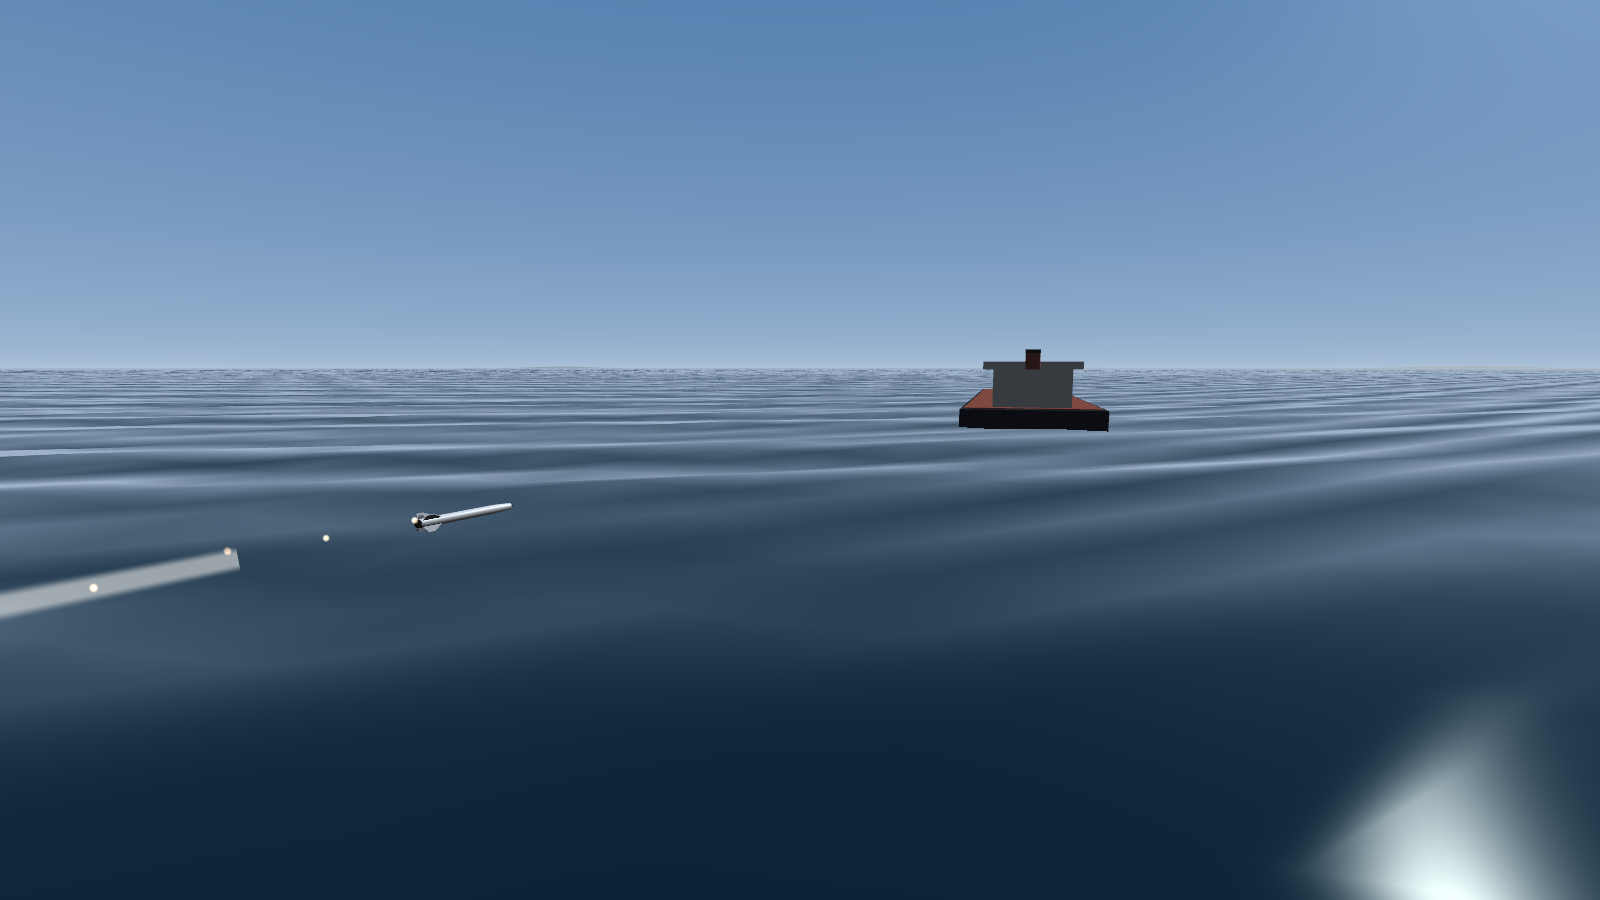
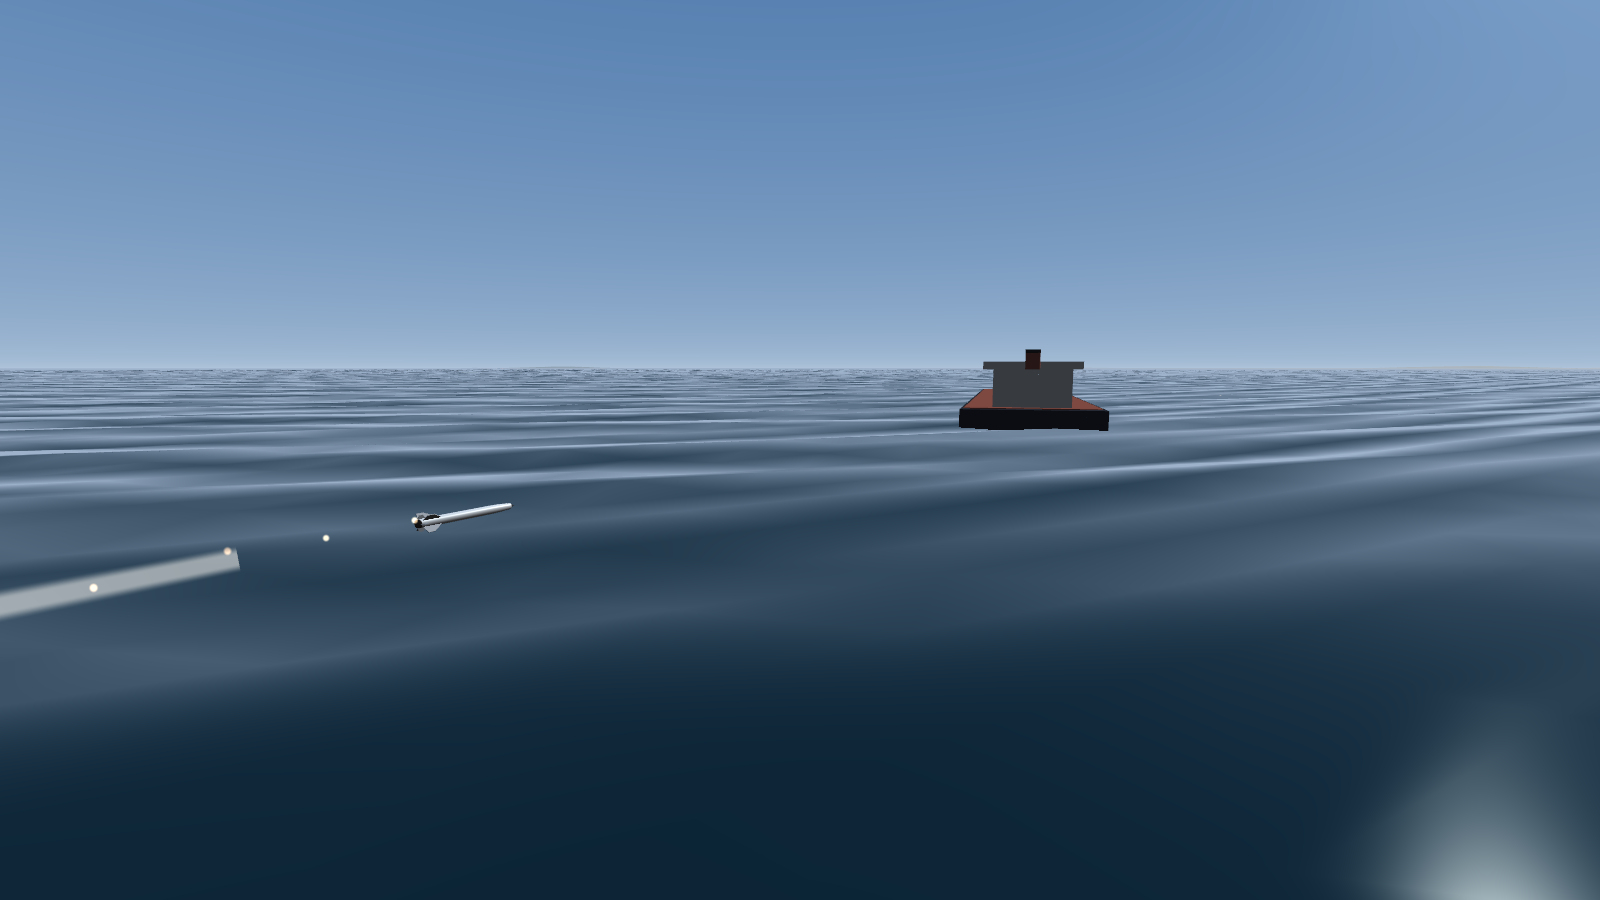
feat: ocean glint variation
S5 glint pass on the ocean shader (geometry untouched — ocean unit
tests unchanged):

- 4th wave direction d3 = (0.675, -0.737) (the golden angle, 2.39996
  rad) at a 37 m wavelength: irrational-ish vs the existing three, so
  the wave phases never re-align into the repeating interference
  lattice that stamped the mid-distance water.
- Specular fades with distance: pow 600 -> 140 and intensity 1.2 ->
  0.30 over 9 km. Near water keeps crisp sparkle; far water gets the
  broad dim sheen of unresolved micro-glints instead of the hard
  white dot field visible in overview.png.

All 7 tracked baselines refreshed deliberately: every scene shows
ocean. overview/models-scenes' mid-distance dot lattice is replaced
by an irregular sun-glade; ocean_low keeps its swell and gains subtle
cross-chop from d3; coast/launch/cruise/terminal/base_ground pick up
the same wave-texture change at their respective distances.

diff --git a/world/ocean.py b/world/ocean.py
@@ -84,19 +84,23 @@ out vec3 v_nrm; out vec3 v_view_vec; out float v_flogz;
 void main(){
     vec2 wxz = a_pos.xz + u_world_origin;   // true world xz -> waves don't swim
     float ww = a_col.r;                      // wave weight
-    // 3 directional sines: dir, spatial freq (rad/m), amplitude (m), speed (m/s)
-    vec2  d0 = vec2( 0.78,  0.62), d1 = vec2(-0.45, 0.89), d2 = vec2(0.95, -0.31);
-    float f0 = 6.2831853/22.0,     f1 = 6.2831853/59.0,    f2 = 6.2831853/13.0;
-    float a0 = 0.35,               a1 = 0.55,              a2 = 0.18;
-    float s0 = 4.0,                s1 = 6.5,               s2 = 3.1;
+    // 4 directional sines: dir, spatial freq (rad/m), amplitude (m), speed (m/s).
+    // d3 (S5 glint pass) heads down the golden angle (2.39996 rad) with a 37 m
+    // wavelength — irrational-ish vs the others, so the four phases never
+    // re-align into the repeating interference lattice three waves made.
+    vec2  d0 = vec2( 0.78,  0.62), d1 = vec2(-0.45, 0.89), d2 = vec2(0.95, -0.31), d3 = vec2(0.675, -0.737);
+    float f0 = 6.2831853/22.0,     f1 = 6.2831853/59.0,    f2 = 6.2831853/13.0,    f3 = 6.2831853/37.0;
+    float a0 = 0.35,               a1 = 0.55,              a2 = 0.18,              a3 = 0.26;
+    float s0 = 4.0,                s1 = 6.5,               s2 = 3.1,               s3 = 4.7;
     float p0 = dot(d0, wxz)*f0 + u_time*s0*f0;
     float p1 = dot(d1, wxz)*f1 + u_time*s1*f1;
     float p2 = dot(d2, wxz)*f2 + u_time*s2*f2;
-    float y = ww * (a0*sin(p0) + a1*sin(p1) + a2*sin(p2));
-    float c0 = a0*f0*cos(p0), c1 = a1*f1*cos(p1), c2 = a2*f2*cos(p2);
-    v_nrm = normalize(vec3(-ww*(c0*d0.x + c1*d1.x + c2*d2.x),
+    float p3 = dot(d3, wxz)*f3 + u_time*s3*f3;
+    float y = ww * (a0*sin(p0) + a1*sin(p1) + a2*sin(p2) + a3*sin(p3));
+    float c0 = a0*f0*cos(p0), c1 = a1*f1*cos(p1), c2 = a2*f2*cos(p2), c3 = a3*f3*cos(p3);
+    v_nrm = normalize(vec3(-ww*(c0*d0.x + c1*d1.x + c2*d2.x + c3*d3.x),
                            1.0,
-                           -ww*(c0*d0.y + c1*d1.y + c2*d2.y)));
+                           -ww*(c0*d0.y + c1*d1.y + c2*d2.y + c3*d3.y)));
     vec4 world_rel = u_model * vec4(a_pos.x, y, a_pos.z, 1.0);  // camera-relative
     v_view_vec = world_rel.xyz;
     gl_Position = u_proj * u_view_rot * world_rel;
@@ -122,7 +126,14 @@ void main(){
     vec3 col = mix(vec3(0.045, 0.14, 0.21), u_haze_color,
                    pow(1.0 - max(dot(n, v), 0.0), 5.0));      // deep water + fresnel
     vec3 hv = normalize(v + u_sun_dir);
-    col += u_sun_color * pow(max(dot(n, hv), 0.0), 600.0) * 1.2;  // sun glint
+    // Sun glint, faded with distance (S5 glint pass): a sharp pow(600)
+    // everywhere turned the periodically-sampled mid-distance waves into a
+    // repeating dot lattice. Far water gets a broader, dimmer highlight
+    // (unresolved micro-glints), near water keeps crisp sparkle.
+    float gt = clamp(length(v_view_vec) / 9000.0, 0.0, 1.0);
+    float spow = mix(600.0, 140.0, gt);
+    float sint = mix(1.2, 0.30, gt);
+    col += u_sun_color * pow(max(dot(n, hv), 0.0), spow) * sint;
     frag = vec4(apply_haze(col, v_view_vec, u_cam_alt), 1.0);
 }
 """
